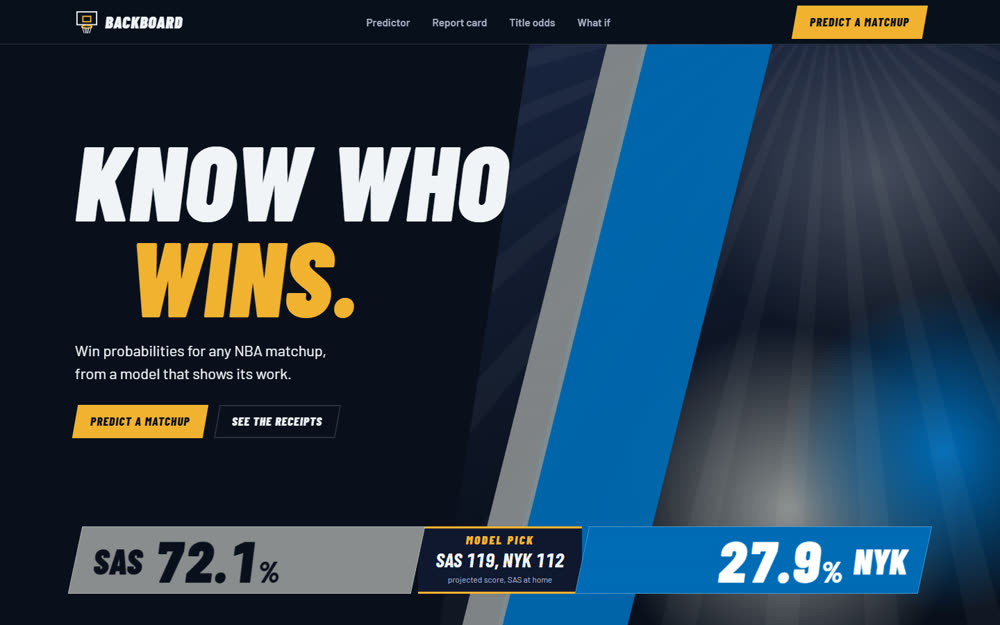
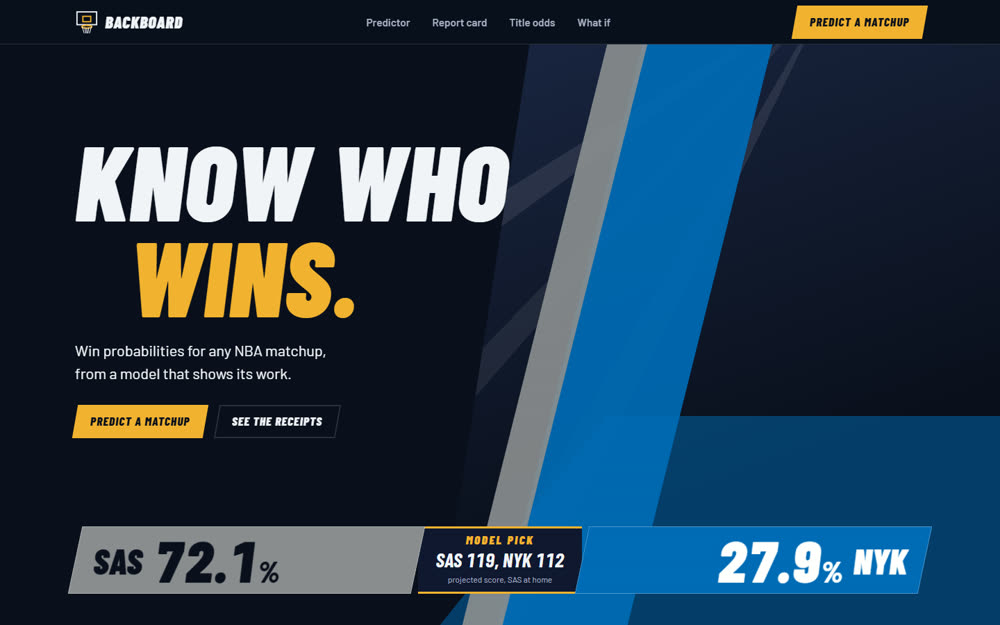
Tune two Taste demo pages after the design detector pass
Zine (Taste): swap the warm newsprint ground for a neutral photocopy grey, the
same direction the Impeccable zine already took. Broadcast (Taste): replace the
team-color radial halos in the stand-in hero image with solid floor bands and
explicit light cones. Thumbnails regenerated.

Changed region(s): [[0.651, 0.0912, 1.0, 0.8512], [0.62, 0.8512, 1.0, 1.0], [0.434, 0.9424, 0.465, 1.0]]

diff --git a/design/backboard-demos/broadcast/taste.html b/design/backboard-demos/broadcast/taste.html
@@ -58,14 +58,11 @@
   .hero { position: relative; min-height: min(calc(100dvh - var(--nav-h)), 860px); display: grid; align-items: center; overflow: hidden; isolation: isolate; }
   .hero .stage-art { position: absolute; inset: 0; z-index: -1; }
   .hero > .wrap { width: 100%; }
-  .stage-art .img { position: absolute; inset: 0 0 0 44%; background:
-      radial-gradient(60% 50% at 78% 22%, rgb(255 255 255 / 0.22), transparent 60%),
-      radial-gradient(40% 40% at 90% 70%, var(--away), transparent 70%),
-      radial-gradient(45% 45% at 62% 80%, var(--home), transparent 70%),
-      linear-gradient(160deg, #1a2542, #0a0f1c 70%);
+  /* stand-in for the arena photo: solid team-color floor band under three light cones */
+  .stage-art .img { position: absolute; inset: 0 0 0 44%; background: linear-gradient(160deg, #1a2542, #0a0f1c 70%);
     clip-path: polygon(16% 0, 100% 0, 100% 100%, 0 100%); }
-  .stage-art .img::after { content: ""; position: absolute; inset: 0; opacity: 0.5; background:
-      repeating-conic-gradient(from 210deg at 70% -10%, rgb(255 255 255 / 0.07) 0 3deg, transparent 3deg 9deg); }
+  .stage-art .img::before { content: ""; position: absolute; inset: auto 0 0 0; height: 36%; background: var(--away); opacity: 0.5; clip-path: polygon(30% 0, 100% 0, 100% 100%, 0 100%); }
+  .stage-art .img::after { content: ""; position: absolute; inset: 0; background: conic-gradient(from 200deg at 70% -10%, transparent 0 6deg, rgb(255 255 255 / 0.09) 6deg 10deg, transparent 10deg 21deg, rgb(255 255 255 / 0.07) 21deg 24deg, transparent 24deg 34deg, rgb(255 255 255 / 0.09) 34deg 38deg, transparent 38deg); }
   .stage-art .wipe { position: absolute; top: 0; bottom: 0; left: 57%; width: 13%; background: var(--away); transform: skewX(-14deg); opacity: 0.92; }
   .stage-art .wipe.b { left: 53.5%; width: 4%; background: var(--home); }
   .hero-copy { position: relative; padding-block: clamp(2rem, 6vh, 5rem) clamp(9rem, 22vh, 13rem); max-width: 660px; }

diff --git a/design/backboard-demos/zine/taste.html b/design/backboard-demos/zine/taste.html
@@ -12,13 +12,13 @@
 <link rel="stylesheet" href="../shared/slots.css">
 <style>
   :root {
-    --ground: #e4e1d9;      /* photocopy newsprint */
-    --paper: #f6f5f0;       /* clean copy paper */
-    --scrap: #d3d0c6;       /* grey newsprint scrap */
+    --ground: #dcdedb;      /* photocopy grey */
+    --paper: #f3f4f1;       /* clean copy paper */
+    --scrap: #cbcdc8;       /* grey newsprint scrap */
     --toner: #141210;
-    --toner-soft: #4b4841;
+    --toner-soft: #46484a;
     --accent: #ff5b14;      /* the one spot color: a second drum, fluoro orange */
-    --tape: rgb(244 242 234 / 0.66);
+    --tape: rgb(240 242 240 / 0.66);
     --f-cut1: "Anton", Impact, "Arial Narrow", sans-serif;
     --f-cut2: "Abril Fatface", "Didot", Georgia, serif;
     --f-cut3: "Bowlby One", "Arial Black", sans-serif;
